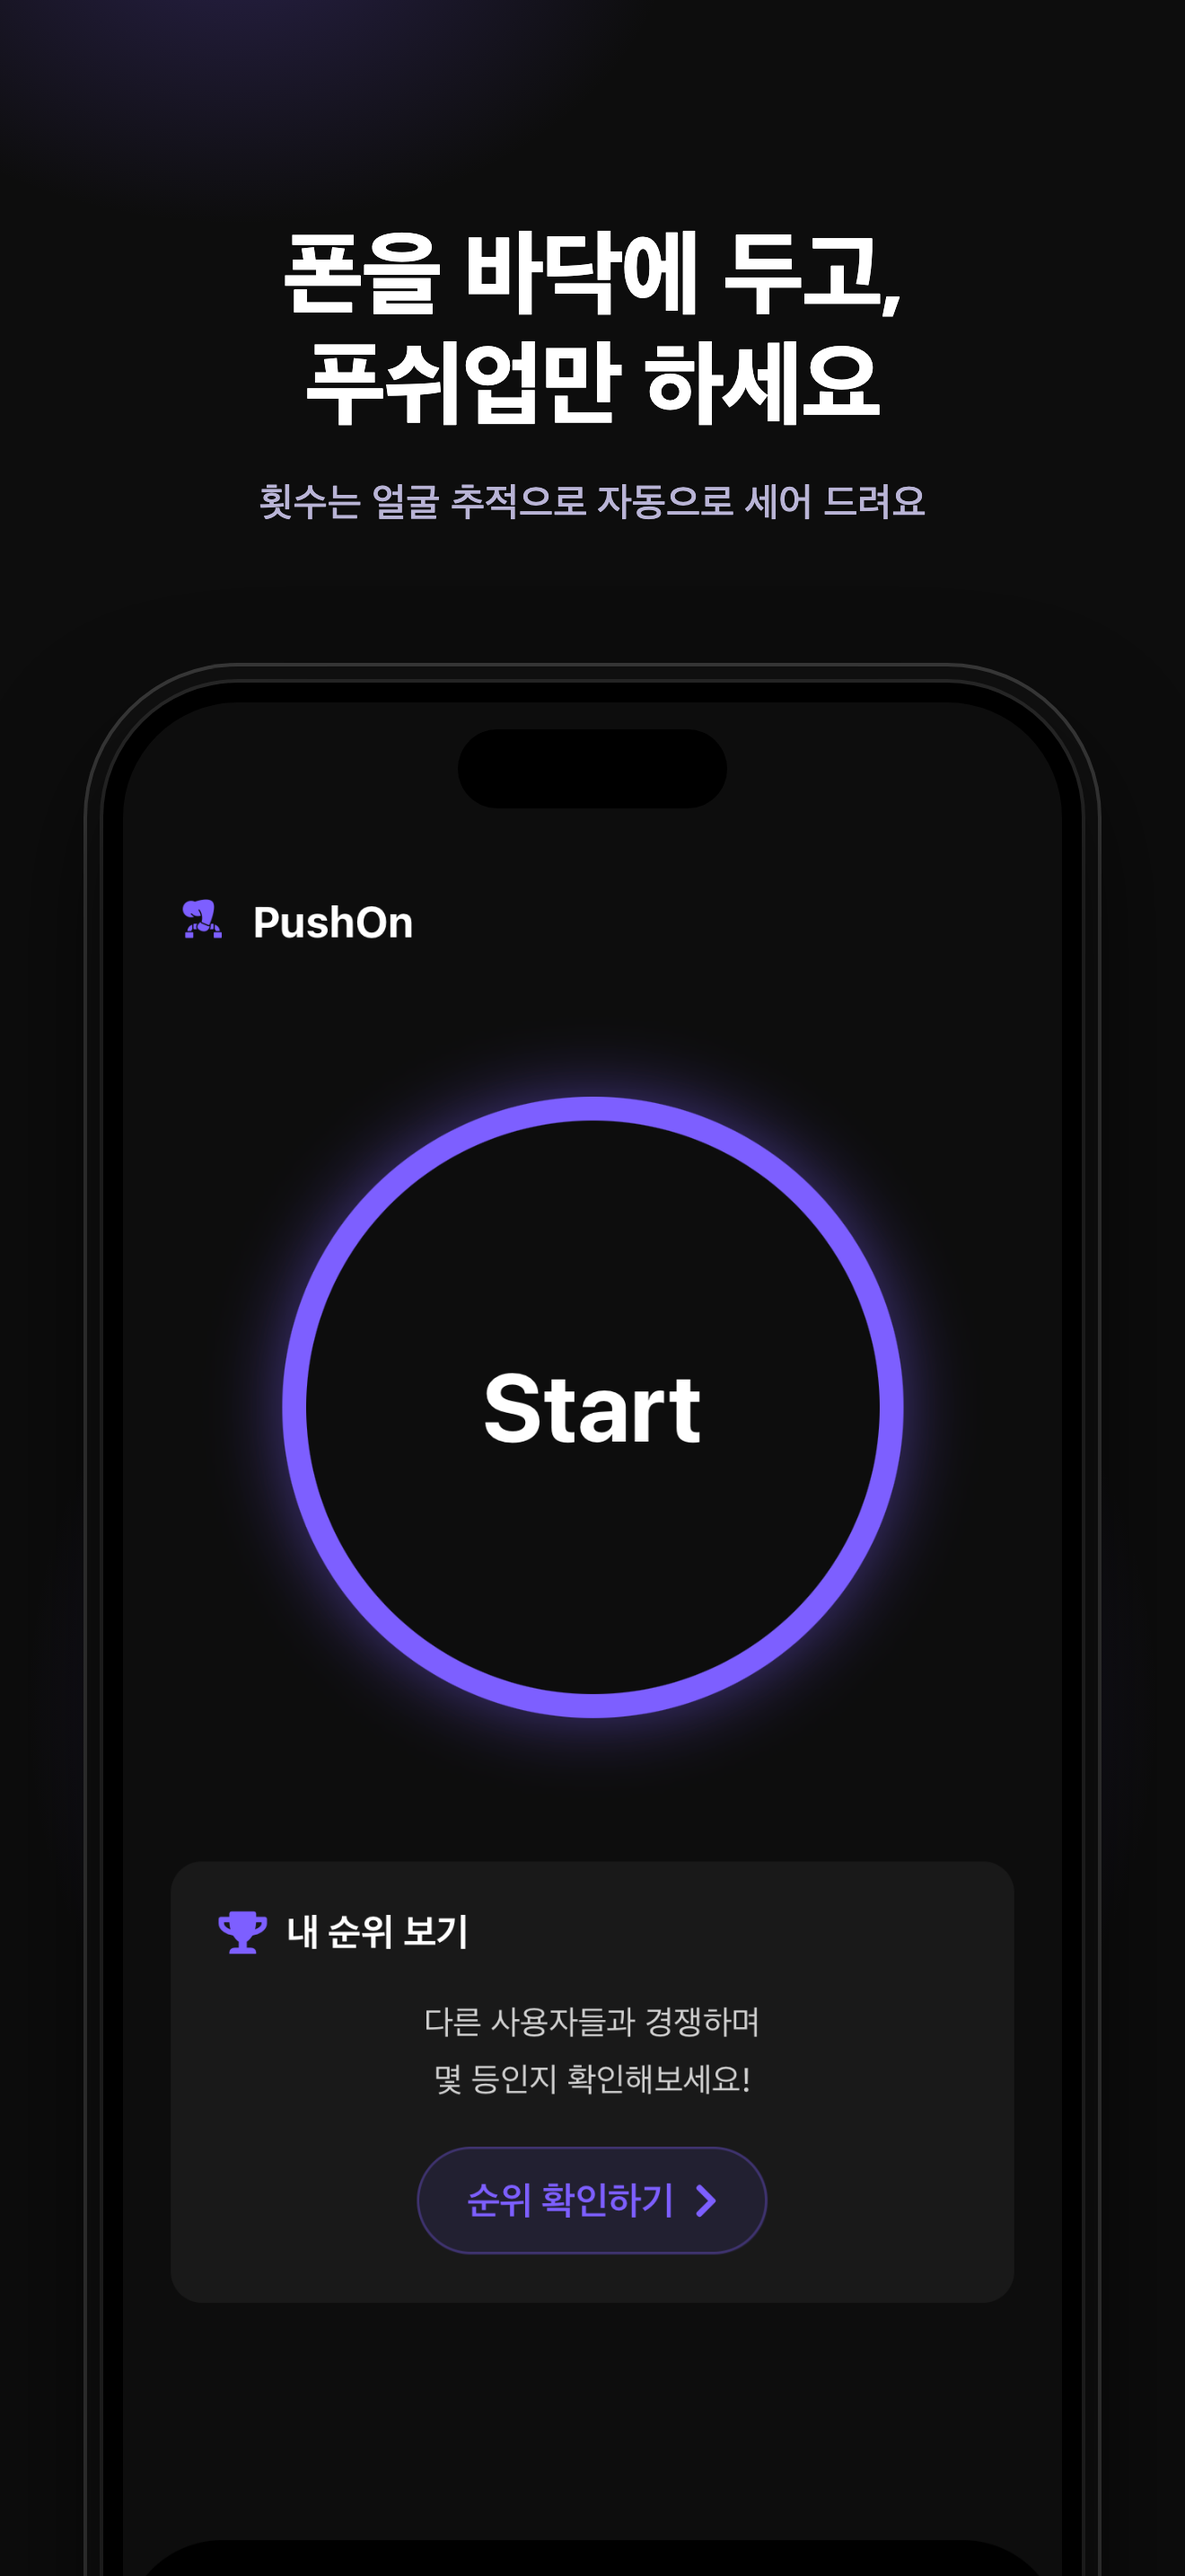
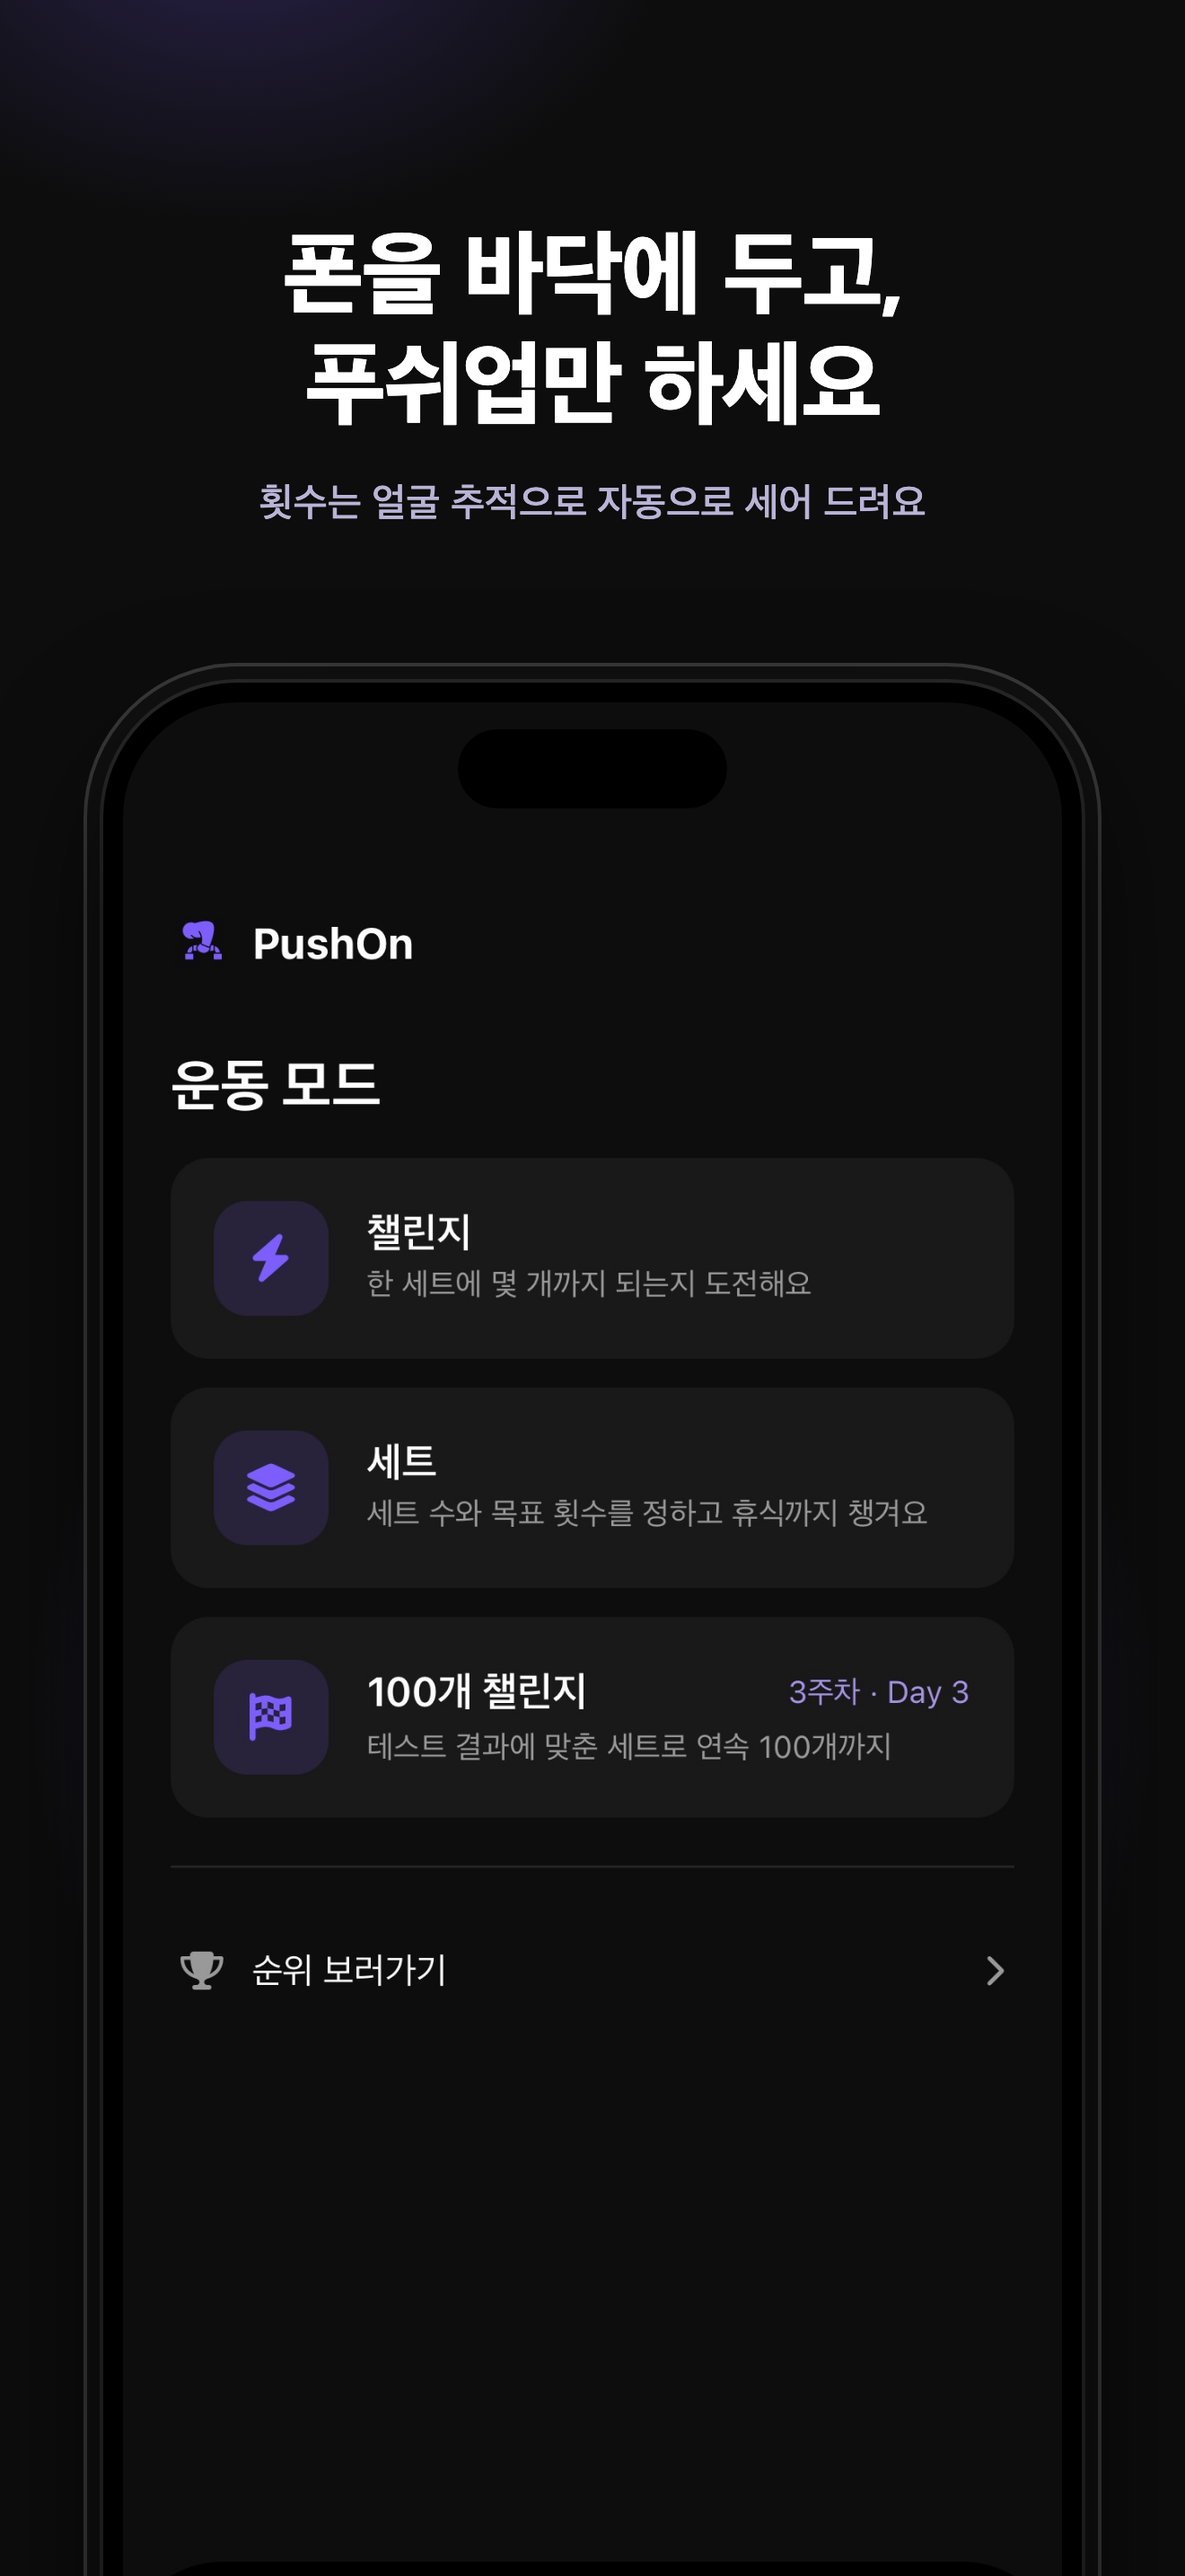
docs(store): App Store 스크린샷·설명을 현재 앱 기준으로 갱신
- 스크린샷 5장 재생성: 홈(운동 모드) / 챌린지 / 100개 챌린지 / 히스토리 / 통계
- 설명에 운동 모드 3종, 100개 챌린지, 운동 알림 추가
- 지금은 없는 리더보드 칩 UI 캡처 제거

diff --git a/store/appstore/screenshots/build.py b/store/appstore/screenshots/build.py
@@ -24,9 +24,9 @@ W, H = 1320, 2868
 SLIDES = [
     ("01.png", "home.png", "폰을 바닥에 두고,\n푸쉬업만 하세요", "횟수는 얼굴 추적으로 자동으로 세어 드려요"),
     ("02.png", "challenge.png", "한 개, 한 개\n정확하게", "내려갔다 올라올 때마다 진동으로 알려줘요"),
-    ("03.png", "history.png", "하루하루\n기록이 쌓여요", "달력에서 날짜별 세트와 횟수를 확인"),
-    ("04.png", "statistic.png", "주간 · 월간 흐름을\n한눈에", "그래프로 보는 나의 꾸준함"),
-    ("05.png", "leaderboard.png", "오늘의 순위는?", "일 · 월 · 년 리더보드로 동기부여"),
+    ("03.png", "program.png", "연속 100개까지\n오늘 할 세트를 정해드려요", "내 수준에 맞춘 난이도로, 운동 알림까지"),
+    ("04.png", "history.png", "하루하루\n기록이 쌓여요", "달력에서 날짜별 세트와 횟수를 확인"),
+    ("05.png", "statistic.png", "주간 · 월간 흐름을\n한눈에", "그래프로 보는 나의 꾸준함"),
 ]
 
 TEMPLATE = """<!doctype html><html lang="ko"><head><meta charset="utf-8">

diff --git a/store/appstore/metadata.md b/store/appstore/metadata.md
@@ -24,33 +24,40 @@
 
 ## 버전 정보
 
-**프로모션 텍스트** (170자 이하, 현재 107자 — 심사 없이 언제든 수정 가능)
+**프로모션 텍스트** (170자 이하, 현재 약 120자 — 심사 없이 언제든 수정 가능)
 ```
-가입 즉시 시작. 아이폰을 얼굴 앞 바닥에 놓고 푸쉬업을 하면 횟수가 자동으로 세어집니다. 달력 기록, 주간·월간 통계, 리더보드로 꾸준함을 만들어 보세요.
+아이폰을 얼굴 앞 바닥에 놓고 푸쉬업을 하면 횟수가 자동으로 세어집니다. 챌린지 · 세트 · 100개 챌린지 중 원하는 방식으로, 기록과 리더보드까지 함께.
 ```
 
-**설명** (4000자 이하, 현재 약 720자)
+**설명** (4000자 이하, 현재 약 950자)
 ```
 푸쉬온은 아이폰 하나로 푸쉬업 횟수를 자동으로 세어 주는 앱입니다.
 
 기기를 얼굴과 마주 보게 바닥에 두고 "시작하기"를 누른 뒤 푸쉬업만 하세요. 전면 카메라의 얼굴 추적으로 내려갔다 올라오는 동작을 인식해 한 개씩 정확히 카운트합니다. 손으로 세거나 스마트워치를 볼 필요가 없습니다.
 
+■ 세 가지 운동 모드
+• 챌린지 — 한 세트에 몇 개까지 되는지 최대 횟수 도전
+• 세트 — 세트 수와 목표 횟수를 정하면 목표 도달 시 자동 종료, 휴식 타이머까지
+• 100개 챌린지 — 연속 100개를 목표로 오늘 할 세트를 정해주는 프로그램
+
+■ 100개 챌린지
+• 초기 테스트로 지금 최대 횟수를 재고, 결과에 맞춘 난이도로 시작
+• 주 3일, 하루 5세트. 오늘 할 세트를 앱이 정해줍니다
+• 중간 테스트로 난이도를 다시 맞추고, 힘들었던 날은 다시 도전할 수 있어요
+• 운동하는 날 원하는 시간에 알림
+
 ■ 자동 카운트
 • 얼굴과 기기 사이의 거리를 측정해 푸쉬업 한 개를 정확히 인식
 • 개수가 올라갈 때마다 진동 피드백
-• 세트 중 일시정지 / 재개, 세트별 소요 시간 기록
+• 일시정지 / 재개, 세트별 소요 시간 기록
 
-■ 기록
-• 달력에서 날짜별 세트와 횟수를 한눈에 확인
-• 하루 총 횟수, 세트 수, 운동 시간 요약
-
-■ 통계
-• 주간 · 월간 그래프로 꾸준함을 확인
-• 늘어나는 기록을 보며 동기부여
+■ 기록과 통계
+• 달력을 월 · 주 단위로 보며 날짜별 운동을 세트 묶음으로 확인
+• 주간 · 월간 · 연간 그래프로 꾸준함을 확인
 
 ■ 리더보드
 • 오늘 · 이번 달 · 올해 순위
-• 다른 사용자와 기록으로 경쟁
+• 내 순위를 한눈에 확인하며 다른 사용자와 경쟁
 
 ■ 간편한 시작
 • 구글 또는 카카오 계정으로 바로 로그인
@@ -71,6 +78,7 @@
 ```
 푸쉬온 첫 출시!
 • 아이폰을 바닥에 두면 푸쉬업 횟수를 자동으로 세어 드려요
+• 챌린지 · 세트 · 100개 챌린지, 세 가지 운동 모드
 • 달력 기록, 주간·월간 통계, 리더보드
 ```
 
@@ -105,7 +113,8 @@ Sign in with Google or Kakao only (Sign in with Apple: see note in submission).
 
 ## 스크린샷
 
-`screenshots/6.9/01.png ~ 05.png` (1320×2868, iPhone 6.9"). 6.9" 만 올리면 6.5"/6.1" 는 자동 적용됨.
+`screenshots/6.9/01.png ~ 05.png` (1320×2868, iPhone 6.9") — 홈(운동 모드) / 챌린지 카운팅 /
+100개 챌린지 / 히스토리 / 통계. 6.9" 만 올리면 6.5"/6.1" 는 자동 적용됨.
 원본 캡처는 `screenshots/raw/`, 합성 스크립트는 `screenshots/build.py` (실행: `python3 store/appstore/screenshots/build.py`).
 
 ## 제출 전 프로젝트 체크리스트
